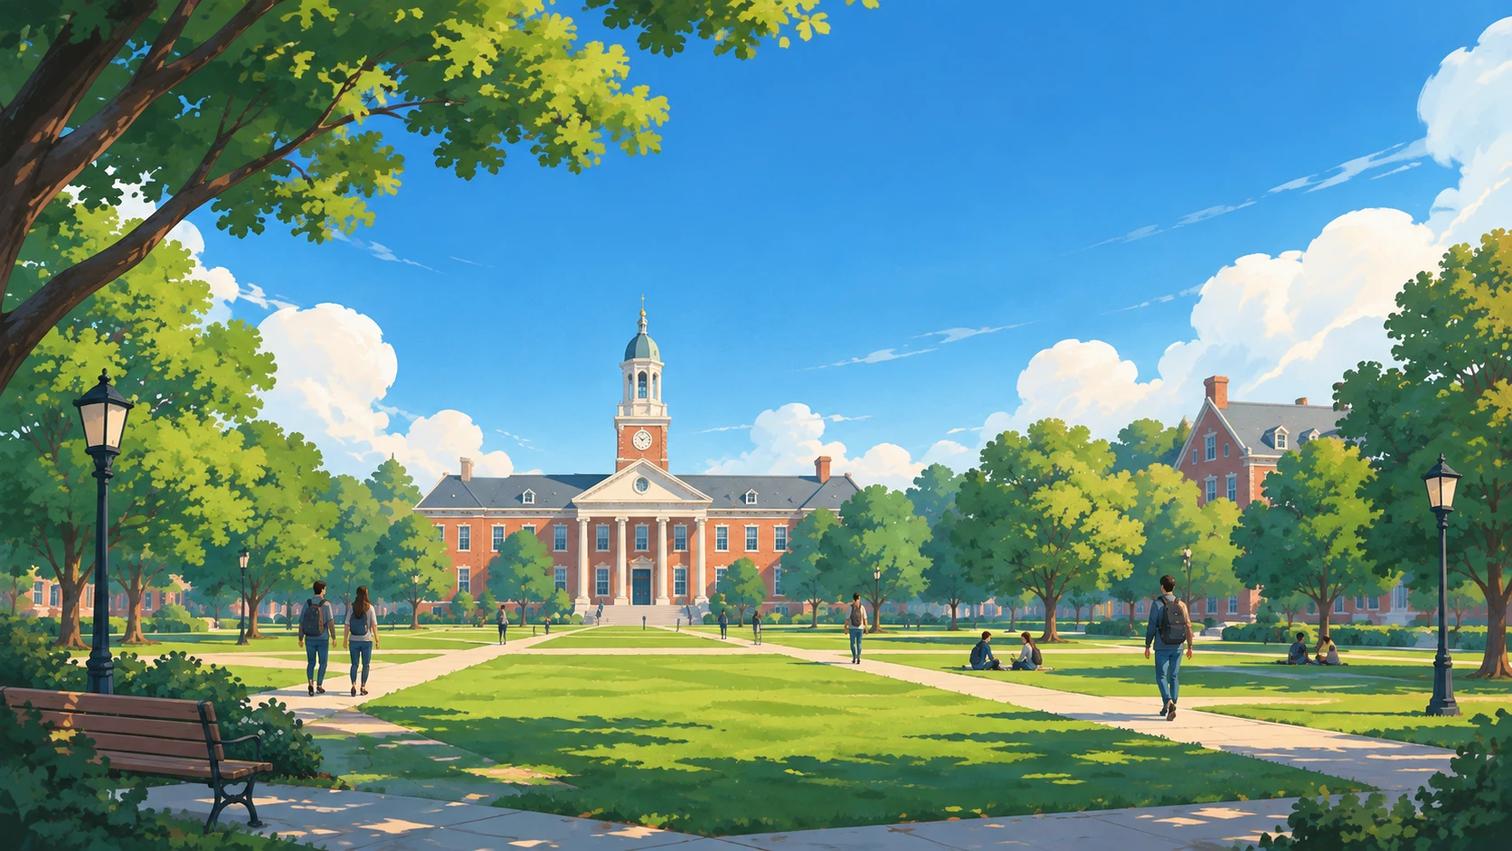
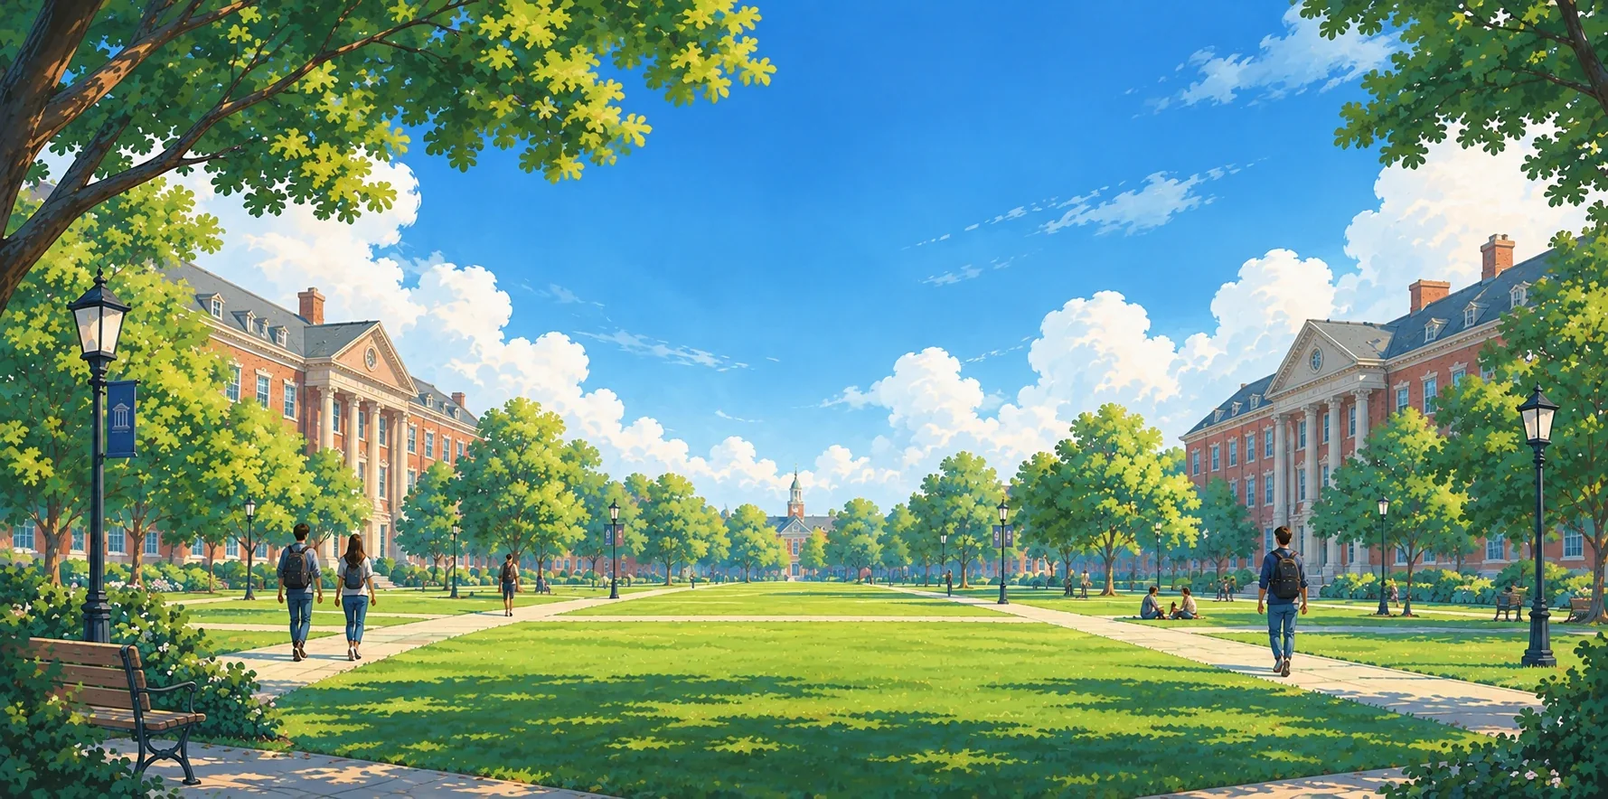
Title screen: back to the centred menu, over new quad art
Reverts the banner layout (4146ab3): the centred card reads better. The
title art is replaced instead: a wider painting (1779 x 884) whose two
halls face each other across the quad at the edges, with open sky above
for the mark and a plain lawn in the middle for the card, so the menu no
longer sits on the painting's subject.

Claude-Session: https://claude.ai/code/session_01FewPpECohJojKr1TNxGNpa

diff --git a/unischool/src/styles.css b/unischool/src/styles.css
@@ -367,120 +367,18 @@ button, input, select, textarea { font-size: inherit; }
   background: #4f9be0 url('./assets/campus-quad.webp') center 62% / cover no-repeat fixed; }
 /* A front screen opened from the title (App.tsx): its card over the art. */
 .front-art { display: contents; }
+.title-screen { gap: var(--space-24); padding: clamp(28px, 7vh, 72px) var(--space-16) 40px; }
+.title-head { text-align: center; color: #fff; text-shadow: 0 2px 14px rgba(10, 50, 110, 0.28); }
 .logo { display: flex; flex-direction: column; align-items: center; gap: clamp(10px, 2vh, 18px); }
 .logo-mark { width: clamp(88px, 13vw, 150px); height: auto; display: block; color: #fff;
   filter: drop-shadow(0 2px 10px rgba(10, 50, 110, 0.25)); }
 /* The game's own name: Archivo at its heaviest, in wide capitals. */
 .logo-name { margin: 0; font-family: var(--sans); font-weight: 800; font-size: clamp(40px, 8vw, 96px); line-height: 1;
   letter-spacing: 0.04em; text-transform: uppercase; color: #fff; }
-
-/* THE TITLE (TitleScreen.tsx): the college's banner hangs on the right; the
-   hall and its clock tower stand centred in the open quad beside it; the hall
-   of fame hangs on the lawn, bottom left.
-   The art is sized and placed so its focus (the tower, which stands over the
-   hall's door, --title-focus of the way across the painting) lands at the
-   centre of the space left of the banner. It is drawn only as wide as that
-   needs: wide enough that the painting right of the tower still reaches the
-   screen's right edge (so the shift never bares an edge, and as much of the
-   tree on the left shows as can), and tall enough to cover the screen. */
-.title-screen { --title-focus: 0.4246; --title-banner-w: 340px; --title-edge: clamp(16px, 3.5vw, 56px);
-  --title-art-w: max(100vw, 178vh, calc((50vw + (var(--title-banner-w) + var(--title-edge)) / 2) / (1 - var(--title-focus)) + 8px));
-  display: grid; grid-template-columns: minmax(0, 1fr) auto; grid-template-rows: auto minmax(0, 1fr) auto;
-  grid-template-areas: "version banner" ". banner" "hall banner"; align-items: start; gap: 0 var(--space-24);
-  padding: 0 var(--title-edge) clamp(16px, 3vh, 32px) clamp(16px, 3vw, 40px);
-  background-size: var(--title-art-w) auto;
-  background-position: calc((100vw - var(--title-banner-w) - var(--title-edge)) / 2 - var(--title-focus) * var(--title-art-w)) 62%; }
-/* A shade from the right, so the banner's edges read over the leaves, and
-   along the foot for the lawn's frames; both gone before the hall. */
-.title-screen::before { content: ""; position: fixed; inset: 0; pointer-events: none;
-  background: linear-gradient(270deg, rgba(43, 10, 18, 0.5) 0%, rgba(43, 10, 18, 0.2) 24%, transparent 40%),
-    linear-gradient(0deg, rgba(20, 40, 20, 0.35) 0%, transparent 24%); }
-.title-banner { grid-area: banner; position: relative; width: min(var(--title-banner-w), 100%); min-height: min(70vh, 600px);
-  display: flex; flex-direction: column; padding: clamp(24px, 5vh, 44px) 28px 76px;
-  background: var(--school-primary); color: var(--school-on-primary); border-top: 6px solid var(--school-secondary);
-  clip-path: polygon(0 0, 100% 0, 100% 100%, 50% calc(100% - 36px), 0 100%); }
-/* A gold hairline inside the edge, stopping above the tail. */
-.title-banner::after { content: ""; position: absolute; inset: 8px 8px 44px; pointer-events: none;
-  border: 1.5px solid color-mix(in srgb, var(--school-secondary) 55%, transparent); border-bottom: 0; }
-.title-banner > * { position: relative; z-index: 1; }
-.title-head { text-align: center; }
-.title-head .logo { align-items: center; gap: var(--space-12); }
-.title-head .logo-mark { width: 64px; color: var(--school-secondary); filter: none; }
-.title-head .logo-name { font-size: 40px; color: var(--school-on-primary); }
-.title-tagline { margin: var(--space-8) 0 0; font-family: var(--sans); font-weight: 600; font-size: var(--text-md);
-  color: color-mix(in srgb, var(--school-on-primary) 82%, transparent); }
-.title-body { flex: 1; display: flex; flex-direction: column; gap: var(--space-16); margin-top: var(--space-24); }
-.title-actions { display: flex; flex-direction: column; }
-.title-actions .title-primary { margin-bottom: var(--space-12); }
-.title-primary { display: flex; flex-direction: column; align-items: center; gap: var(--space-2); padding: var(--space-12) var(--space-16);
-  border-radius: var(--radius-lg); font-size: var(--text-xl); }
-.title-sub { font-family: var(--sans); font-weight: 600; font-size: var(--text-sm); opacity: 0.85; }
-/* The quiet rows under it: words on the banner, a rule between them. */
-.title-row { display: flex; justify-content: space-between; align-items: center; width: 100%; padding: 11px 2px;
-  background: none; border: 0; border-bottom: 1px solid color-mix(in srgb, var(--school-on-primary) 20%, transparent);
-  color: var(--school-on-primary); font-family: var(--display); font-weight: 800; font-size: var(--text-lg); text-align: left; cursor: pointer; }
-.title-row::after { content: "›"; font-size: 1.5em; line-height: 1; opacity: 0.7; transition: transform 0.15s; }
-.title-row[aria-expanded="true"]::after { transform: rotate(90deg); }
-.title-row:hover:not(:disabled) { color: var(--school-secondary); }
-.title-row:focus-visible { outline: 2px solid var(--school-secondary); outline-offset: 2px; }
-.title-row.confirm-armed { padding-inline: var(--space-12); border-radius: var(--radius-sm); }
-.title-row.confirm-armed::after { content: none; }
-.title-banner .confirm-warning { color: var(--school-secondary); padding: var(--space-4) 2px; }
-.title-drawer { display: flex; flex-direction: column; gap: var(--space-8); margin: var(--space-8) 0;
-  padding: var(--space-8); background: var(--cream-hi); color: var(--ink); border-radius: var(--radius-lg); }
-/* Settings, Credits, Feedback: small words at the foot of the banner. */
-.title-utility { display: flex; flex-wrap: wrap; gap: var(--space-4) var(--space-16); margin-top: auto; }
-.title-link { padding: var(--space-4) 0; background: none; border: 0; cursor: pointer;
-  font-family: var(--sans); font-weight: 600; font-size: var(--text-sm); color: color-mix(in srgb, var(--school-on-primary) 78%, transparent); }
-.title-link:hover { color: var(--school-secondary); text-decoration: underline; }
-.title-link:focus-visible { outline: 2px solid var(--school-secondary); outline-offset: 2px; }
-/* A notice (the statistics question, a set-aside save): a cream note on the banner. */
-.title-note { background: var(--cream-hi); color: var(--ink); }
-.title-version { grid-area: version; justify-self: start; position: relative; margin: var(--space-12) 0 0; font-size: var(--text-sm);
-  color: rgba(255, 255, 255, 0.85); text-shadow: 0 1px 6px rgba(10, 30, 60, 0.45); font-variant-numeric: tabular-nums; }
-/* The hall of fame on the lawn: the newest frames, small. */
-.title-hall { grid-area: hall; justify-self: start; align-self: end; position: relative; display: grid; justify-items: start;
-  gap: var(--space-8); max-width: min(460px, 100%); }
-.title-screen .title-hall-head { margin: 0; font-family: var(--sans); font-size: var(--text-sm); font-weight: 800; text-transform: uppercase;
-  letter-spacing: 0.08em; color: #fff; text-shadow: 0 1px 6px rgba(10, 30, 20, 0.5); }
-.title-hall .hall-frames { display: flex; flex-wrap: wrap; justify-content: flex-start; gap: var(--space-12); }
-.title-hall .hall-frames > li { width: 132px; }
-.title-hall .hall-frame { padding: var(--space-6); box-shadow: inset 0 0 0 3px var(--frame-wood-light), 0 8px 18px -8px rgba(0, 0, 0, 0.55); }
-.title-hall .hall-plaque { margin-top: var(--space-6); padding: var(--space-4) var(--space-6); }
-.title-hall-empty { width: 200px; margin: 0; padding: var(--space-12); border: 2px dashed rgba(255, 255, 255, 0.85); border-radius: var(--radius-xs);
-  background: rgba(255, 253, 248, 0.2); color: #fff; font-size: var(--text-sm); line-height: 1.4; text-shadow: 0 1px 4px rgba(10, 30, 20, 0.6); }
-.title-hall-all { color: #fff; text-shadow: 0 1px 6px rgba(10, 30, 20, 0.6); }
-.title-hall-all:hover { color: #fff; }
-
-/* On a phone there is no room beside the hall: the art, 70vh tall (so
-   124.4vh wide), is centred on the tower across the top, the banner's head sits in its sky, and its body is
-   a sheet over the grass that carries the menu, the hall and the version.
-   A portrait tablet too: the space beside the banner is narrower than the
-   hall. The sheet's words keep to a phone's measure in the middle. */
-@media (max-width: 640px), (orientation: portrait) and (max-width: 1024px) {
-  .title-screen { display: flex; flex-direction: column; align-items: stretch; gap: 0; padding: 0;
-    background-size: auto 70vh; background-position: calc(50% + (0.5 - var(--title-focus)) * 124.4vh) 0; background-attachment: scroll; }
-  .title-screen::before { content: none; }
-  .title-banner { width: auto; min-height: 0; flex: 1 0 auto; padding: 0; background: none; border-top: 0; clip-path: none; }
-  .title-banner::after { content: none; }
-  .title-head { min-height: 52vh; padding: max(20px, env(safe-area-inset-top, 0px)) 16px 16px; text-align: center;
-    text-shadow: 0 2px 14px rgba(10, 50, 110, 0.35); }
-  .title-head .logo { align-items: center; gap: var(--space-8); }
-  .title-head .logo-mark { width: 56px; color: #fff; filter: drop-shadow(0 2px 10px rgba(10, 50, 110, 0.3)); }
-  .title-head .logo-name { font-size: 38px; color: #fff; }
-  .title-tagline { color: #fff; }
-  .title-screen { --title-sheet-pad: max(16px, (100% - 480px) / 2); }
-  .title-body { margin: 0; padding: 20px max(var(--title-sheet-pad), env(safe-area-inset-right, 0px)) 8px max(var(--title-sheet-pad), env(safe-area-inset-left, 0px));
-    background: var(--school-primary); border-top: 6px solid var(--school-secondary); }
-  .title-hall, .title-version { align-self: stretch; max-width: none; margin: 0; background: var(--school-primary);
-    padding: 0 max(var(--title-sheet-pad), env(safe-area-inset-right, 0px)) 0 max(var(--title-sheet-pad), env(safe-area-inset-left, 0px)); }
-  .title-hall { justify-items: start; padding-bottom: var(--space-8); }
-  .title-hall:not(:has(.title-hall-all)), .title-hall .hall-frames, .title-hall .title-hall-head { display: none; }
-  .title-hall-all { color: color-mix(in srgb, var(--school-on-primary) 78%, transparent); text-shadow: none; }
-  .title-hall-all::before { content: "The hall of fame · "; }
-  .title-version { padding-bottom: max(16px, env(safe-area-inset-bottom, 0px)); text-shadow: none;
-    color: color-mix(in srgb, var(--school-on-primary) 60%, transparent); }
-}
+.title-tagline { margin: var(--space-12) 0 0; font-family: var(--sans); font-weight: 600; font-size: var(--text-xl); color: #fff; }
+/* The menu: the game's own front-screen card and buttons over the art,
+   narrower so the quad shows round it. */
+.title-screen .title-card { width: min(460px, 100%); margin-top: auto; }
 /* A save this version could not open (TitleScreen.tsx). */
 .title-set-aside { margin: 0 0 14px; padding: 10px 14px; border: 2px dashed var(--parchment-line); border-radius: var(--radius-lg);
   font-size: var(--text-sm); line-height: 1.45; color: var(--ink-muted); }
@@ -506,6 +404,12 @@ button, input, select, textarea { font-size: inherit; }
 .save-slot-actions .menu-btn { width: auto; }
 .import-save-note { margin: 0; font-size: var(--text-sm); line-height: 1.4; color: var(--ink-muted); display: flex; flex-direction: column; gap: 6px; }
 .import-save-note p { margin: 0; color: var(--ink); font-weight: 600; }
+.title-actions { display: flex; flex-direction: column; gap: 8px; margin-bottom: 20px; }
+.title-primary { display: flex; flex-direction: column; align-items: center; gap: var(--space-2); padding: var(--space-12) var(--space-16);
+  border-radius: var(--radius-lg); font-size: var(--text-xl); }
+.title-sub { font-family: var(--sans); font-weight: 600; font-size: var(--text-sm); opacity: 0.85; }
+.title-hall-head { margin: 0 0 var(--space-8); }
+.title-hall-all { margin-top: 10px; }
 .hall-head { display: flex; justify-content: space-between; align-items: center; margin-bottom: 12px; }
 .hall-head .hall-title { margin: 0; }
 .settings-row { border: 0; margin: 0 0 14px; padding: 0; display: flex; flex-wrap: wrap; gap: 6px; align-items: center; }
@@ -517,6 +421,7 @@ button, input, select, textarea { font-size: inherit; }
 .settings-keys dd { margin: 0; display: grid; grid-template-columns: 9.5em 1fr; gap: 8px; align-items: baseline; font-size: var(--text-sm); }
 .settings-keys-caps { display: flex; flex-wrap: wrap; gap: 3px; }
 .settings-keys kbd { font: inherit; font-size: var(--text-xs); min-width: 1.7em; text-align: center; padding: 1px 5px; border: 1px solid var(--ink-muted); border-radius: 4px; }
+.title-version { margin: var(--space-12) 0 0; font-size: var(--text-sm); color: var(--ink-muted); text-align: center; font-variant-numeric: tabular-nums; }
 .credits-lede { font-style: italic; color: var(--ink-muted); }
 .credits-list { display: grid; grid-template-columns: auto 1fr; gap: 6px 16px; }
 .credits-list dt { font-family: var(--display); font-weight: 800; color: var(--ink); }

diff --git a/unischool/src/components/TitleScreen.tsx b/unischool/src/components/TitleScreen.tsx
@@ -1,4 +1,4 @@
-import { useId, useState } from 'react';
+import { useState } from 'react';
 import ConfirmButton from './ConfirmButton';
 import { discardSetAsideSave, readSetAsideRaw, readSetAsideSave } from '../state/persistence';
 import ImportSave from './ImportSave';
@@ -20,12 +20,8 @@ import { feedbackAvailable, openFeedback } from '../feedback';
 // screen); and the hall of fame's newest portraits, because they are the
 // reason to play again.
 //
-// Over the title art (assets/campus-quad.webp): the college's banner hangs
-// on the right, carrying the mark, the name and the menu; the art is placed
-// so the hall and its clock tower stand centred in the space beside it. The
-// hall of fame hangs on the lawn, bottom left.
-// On a phone the banner's head sits in the sky and its body is a sheet over
-// the grass (styles.css).
+// Over the title art (assets/campus-quad.webp): the mark and the name in the
+// sky, the menu on a frosted card below them, the quad showing round it.
 
 const SHOWN = 3;
 
@@ -46,102 +42,86 @@ export default function TitleScreen({ s, onContinue, onNewCollege, onSandbox, on
   // is sent, in a build that sends them at all.
   const settings = useSettings();
   const asking = statsAvailable() && settings.stats === 'unasked';
-  const [saves, setSaves] = useState(false);
-  const savesId = useId();
   return (
     <div className="front-screen title-screen" role="dialog" aria-modal="true" aria-label="UniSchool">
-      <div className="title-banner">
-        <header className="title-head">
-          <Logo />
-          <p className="title-tagline">Fifty years to build a university.</p>
-        </header>
-        <div className="title-body">
-          {asking && (
-            <p className="title-note title-stats" role="status">
-              UniSchool sends anonymous play statistics to help the playtest.
-              {' '}
-              <button type="button" className="menu-btn" onClick={() => answerStats(true)}>Fine</button>
-              <button type="button" className="menu-btn btn-quiet" onClick={() => answerStats(false)}>Turn off</button>
-            </p>
-          )}
-          {setAside && (
-            <p className="title-note title-set-aside" role="status">
-              {setAside.name ? `${setAside.name}, a college saved` : 'A college saved'}
-              {setAside.savedAt ? ` on ${calendarDate(setAside.savedAt)}` : ''}, was made by an earlier version of the game and cannot be continued in this one. It has been kept aside rather than erased.
-              {' '}
-              <button
-                type="button"
-                className="menu-btn"
-                onClick={() => { const raw = readSetAsideRaw(); if (raw) { downloadFile(`${(setAside.name ?? 'college').toLowerCase().replace(/[^a-z0-9]+/g, '-')}-set-aside.unischool.json`, raw); saveExported('set-aside'); } }}
-              >
-                Download it
-              </button>
-              <button type="button" className="menu-btn btn-quiet" onClick={() => { discardSetAsideSave(); setSetAside(null); }}>Discard it</button>
-            </p>
-          )}
-          {/* One loud button (Continue, or New game on a first run), then
-              the rest as quiet rows on the banner. */}
-          <nav className="title-actions" aria-label="Start">
-            {underway && (
-              <button type="button" className="title-primary" onClick={onContinue}>
-                <span>Continue</span>
-                <span className="title-sub">{institutionName(s.self)} · {gameDate(s.clock.year, s.clock.week)}</span>
-              </button>
-            )}
-            <ConfirmButton
-              className={underway ? 'title-row' : 'title-primary'}
-              label="New game"
-              armedLabel={`Confirm — erase ${institutionName(s.self)}`}
-              warning={`${institutionName(s.self)} is erased and another is founded.`}
-              needsConfirm={underway}
-              onConfirm={onNewCollege}
-            />
-            {/* A college with funds that never run out and nothing to wait on
-                (systems/sandbox). It replaces the run here as New game does. */}
-            <ConfirmButton
-              className="title-row"
-              title="Found a college with unlimited funds, where buildings and courses are finished the moment they are started."
-              label="Sandbox"
-              armedLabel={`Confirm — erase ${institutionName(s.self)}`}
-              warning={`${institutionName(s.self)} is erased and a sandbox college is founded.`}
-              needsConfirm={underway}
-              onConfirm={onSandbox}
-            />
-            {/* The save slots and a save file, behind one row. */}
-            <button type="button" className="title-row" aria-expanded={saves} aria-controls={savesId} onClick={() => setSaves(!saves)}>
-              Saves &amp; files
+      <header className="title-head">
+        <Logo />
+        <p className="title-tagline">Fifty years to build a university.</p>
+      </header>
+      <div className="title-card">
+        {asking && (
+          <p className="title-stats" role="status">
+            UniSchool sends anonymous play statistics to help the playtest.
+            {' '}
+            <button type="button" className="menu-btn" onClick={() => answerStats(true)}>Fine</button>
+            <button type="button" className="menu-btn btn-quiet" onClick={() => answerStats(false)}>Turn off</button>
+          </p>
+        )}
+        {setAside && (
+          <p className="title-set-aside" role="status">
+            {setAside.name ? `${setAside.name}, a college saved` : 'A college saved'}
+            {setAside.savedAt ? ` on ${calendarDate(setAside.savedAt)}` : ''}, was made by an earlier version of the game and cannot be continued in this one. It has been kept aside rather than erased.
+            {' '}
+            <button
+              type="button"
+              className="menu-btn"
+              onClick={() => { const raw = readSetAsideRaw(); if (raw) { downloadFile(`${(setAside.name ?? 'college').toLowerCase().replace(/[^a-z0-9]+/g, '-')}-set-aside.unischool.json`, raw); saveExported('set-aside'); } }}
+            >
+              Download it
             </button>
-            {saves && (
-              <div className="title-drawer" id={savesId}>
-                <SaveSlots current={s} canSave={false} startOpen onClose={() => setSaves(false)} />
-                <ImportSave current={s} />
-              </div>
-            )}
-          </nav>
-          <div className="title-utility">
-            <button type="button" className="title-link" onClick={onSettings}>Settings</button>
-            <button type="button" className="title-link" onClick={onCredits}>Credits</button>
-            {feedbackAvailable() && <button type="button" className="title-link" title="A short form, in a new tab." onClick={() => openFeedback(underway ? s : null, 'title')}>Feedback</button>}
-          </div>
-        </div>
+            <button type="button" className="menu-btn btn-quiet" onClick={() => { discardSetAsideSave(); setSetAside(null); }}>Discard it</button>
+          </p>
+        )}
+        <nav className="title-actions" aria-label="Start">
+          {underway && (
+            <button type="button" className="title-primary" onClick={onContinue}>
+              <span>Continue</span>
+              <span className="title-sub">{institutionName(s.self)} · {gameDate(s.clock.year, s.clock.week)}</span>
+            </button>
+          )}
+          <ConfirmButton
+            className={underway ? 'menu-btn' : 'title-primary'}
+            label="New game"
+            armedLabel={`Confirm — erase ${institutionName(s.self)}`}
+            warning={`${institutionName(s.self)} is erased and another is founded.`}
+            needsConfirm={underway}
+            onConfirm={onNewCollege}
+          />
+          {/* A college with funds that never run out and nothing to wait on
+              (systems/sandbox). It replaces the run here as New game does. */}
+          <ConfirmButton
+            className="menu-btn"
+            title="Found a college with unlimited funds, where buildings and courses are finished the moment they are started."
+            label="Sandbox"
+            armedLabel={`Confirm — erase ${institutionName(s.self)}`}
+            warning={`${institutionName(s.self)} is erased and a sandbox college is founded.`}
+            needsConfirm={underway}
+            onConfirm={onSandbox}
+          />
+          <SaveSlots current={s} canSave={false} />
+          <ImportSave current={s} />
+          <button type="button" className="menu-btn" onClick={onSettings}>Settings</button>
+          <button type="button" className="menu-btn" onClick={onCredits}>Credits</button>
+          {feedbackAvailable() && <button type="button" className="menu-btn" title="A short form, in a new tab." onClick={() => openFeedback(underway ? s : null, 'title')}>Send feedback</button>}
+        </nav>
+        <section className="title-hall" aria-label="The hall of fame">
+          <h2 className="title-hall-head">The hall of fame</h2>
+          {hall.length === 0 ? (
+            <p className="review-empty">No college has reached its fiftieth year in this browser yet. The first to finish hangs here, with a portrait of what it became.</p>
+          ) : (
+            <>
+              <ul className="hall-frames">
+                {hall.slice(0, SHOWN).map((e) => <li key={e.id}><HallFrame entry={e} onClick={onHall} /></li>)}
+              </ul>
+              <button type="button" className="menu-btn title-hall-all" onClick={onHall}>
+                {hall.length > SHOWN ? `All ${hall.length} colleges` : 'Open the hall'}
+              </button>
+            </>
+          )}
+        </section>
+        {/* Which build this is (Plan 97B): feedback names it. */}
+        <p className="title-version" title={`Build ${BUILD_ID}`}>{versionLine()}</p>
       </div>
-      <section className="title-hall" aria-label="The hall of fame">
-        <h2 className="title-hall-head">The hall of fame</h2>
-        {hall.length === 0 ? (
-          <p className="title-hall-empty">No college has reached its fiftieth year in this browser yet. The first to finish hangs here.</p>
-        ) : (
-          <ul className="hall-frames">
-            {hall.slice(0, SHOWN).map((e) => <li key={e.id}><HallFrame entry={e} onClick={onHall} /></li>)}
-          </ul>
-        )}
-        {hall.length > 0 && (
-          <button type="button" className="title-link title-hall-all" onClick={onHall}>
-            {hall.length > SHOWN ? `All ${hall.length} colleges` : 'Open the hall'}
-          </button>
-        )}
-      </section>
-      {/* Which build this is (Plan 97B): feedback names it. */}
-      <p className="title-version" title={`Build ${BUILD_ID}`}>{versionLine()}</p>
     </div>
   );
 }

diff --git a/unischool/src/components/SaveSlots.tsx b/unischool/src/components/SaveSlots.tsx
@@ -19,13 +19,10 @@ import { calendarDate } from '../format';
 const STORAGE_FULL = 'Not saved: this browser\'s storage is full. Delete a slot, or use Download save to keep the run as a file.';
 
 
-// `startOpen` shows the slots at once, for a caller that already asked for
-// them (the title screen's Saves & files); its `onClose` then folds that
-// caller's own disclosure instead of this button's.
-export default function SaveSlots({ current, canSave, className = 'menu-btn', startOpen = false, onClose }: {
-  current: GameState; canSave: boolean; className?: string; startOpen?: boolean; onClose?: () => void;
+export default function SaveSlots({ current, canSave, className = 'menu-btn' }: {
+  current: GameState; canSave: boolean; className?: string;
 }) {
-  const [open, setOpen] = useState(startOpen);
+  const [open, setOpen] = useState(false);
   const [slots, setSlots] = useState<(SlotInfo | null)[]>(listSlots);
   const [note, setNote] = useState<string | null>(null);
   const refresh = () => setSlots(listSlots());
@@ -113,7 +110,7 @@ export default function SaveSlots({ current, canSave, className = 'menu-btn', st
         })}
       </ul>
       {note && <p className="import-save-note" role="status">{note}</p>}
-      <button type="button" className={`${className} btn-quiet`} onClick={() => (onClose ? onClose() : setOpen(false))}>Close slots</button>
+      <button type="button" className={`${className} btn-quiet`} onClick={() => setOpen(false)}>Close slots</button>
     </div>
   );
 }
